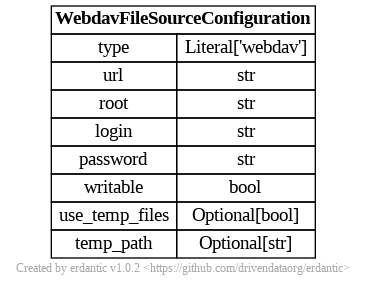
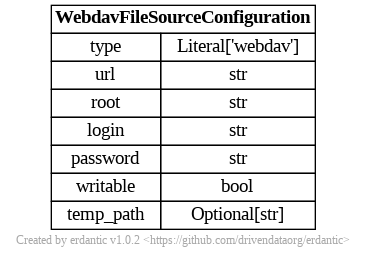
remove use_temp_files configuration parameter

Changed region(s): [[0.03, 0.0, 0.9591, 0.9575]]

diff --git a/lib/galaxy/files/templates/models.py b/lib/galaxy/files/templates/models.py
@@ -128,7 +128,6 @@ class WebdavFileSourceTemplateConfiguration(StrictModel):
     login: Union[str, TemplateExpansion]
     password: Union[str, TemplateExpansion]
     writable: Union[bool, TemplateExpansion] = False
-    use_temp_files: Optional[Union[bool, TemplateExpansion]] = None
     temp_path: Optional[Union[str, TemplateExpansion]] = None
     template_start: Optional[str] = None
     template_end: Optional[str] = None
@@ -141,7 +140,6 @@ class WebdavFileSourceConfiguration(StrictModel):
     login: str
     password: str
     writable: bool = False
-    use_temp_files: Optional[bool] = None
     temp_path: Optional[str] = None
 
 
